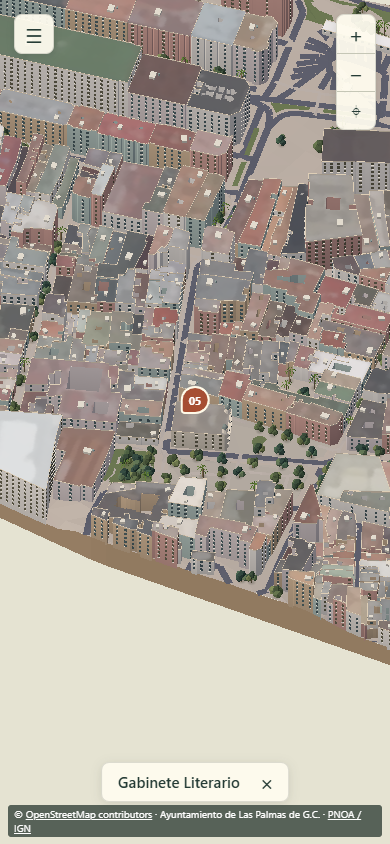
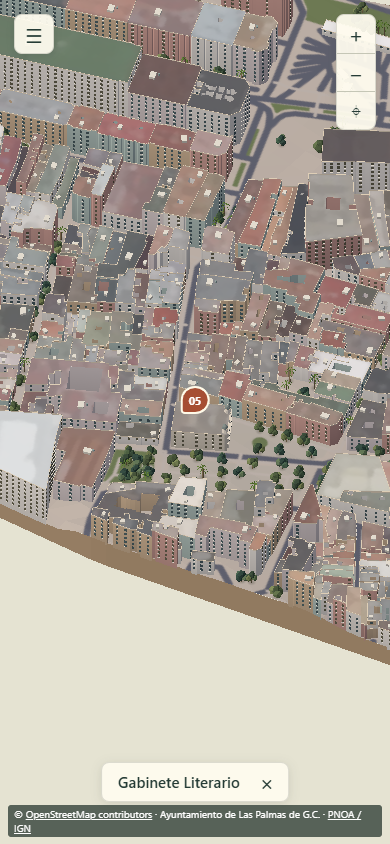
Render streets and plazas directly on the terrain surface

diff --git a/scene.js b/scene.js
@@ -1,3 +1,4 @@
+import { makeGroundMap } from './ground-map.js';
 import { addLandmarks } from './landmarks.js';
 import * as T from 'three';
 import { mergeGeometries } from 'three/addons/utils/BufferGeometryUtils.js';
@@ -51,7 +52,7 @@ export function makeCity(data, neutral, roofColours, roofAtlas, compact=false) {
     g.computeVertexNormals(); return g.rotateX(-Math.PI/2);
   }
   // Subdivide the ground before clipping so local relief survives triangulation.
-  for(const ring of data.ground) add(drape(new T.ShapeGeometry(shape([ring])),0),'#c7bcb2',ring[0][0],ring[0][1],1);
+  for(const ring of data.ground) add(drape(new T.ShapeGeometry(shape([ring])),0),'#ffffff',ring[0][0],ring[0][1],6);
   const boundary=data.boundary;
   for(let k=1;k<boundary.length;k++){
     const [a,b]=boundary[k-1],[c,d]=boundary[k];
@@ -61,24 +62,6 @@ export function makeCity(data, neutral, roofColours, roofAtlas, compact=false) {
       const xx=T.MathUtils.lerp(a,c,(j+1)/steps),yy=T.MathUtils.lerp(b,d,(j+1)/steps);
       const v=[x,altitude(x,y),-y,xx,altitude(xx,yy),-yy,x,-5,-y,xx,altitude(xx,yy),-yy,xx,-5,-yy,x,-5,-y];
       const g=new T.BufferGeometry();g.setAttribute('position',new T.Float32BufferAttribute(v,3));g.computeVertexNormals();add(g,'#bb9f7d',x,y);
-    }
-  }
-  for(const s of data.surfaces){
-    const pavedPark=s.paved;
-    const planted=s.kind==='park' && !pavedPark;
-    const paving=s.id==='30801430'?'#96948f':'#c0b9af';
-    add(drape(new T.ShapeGeometry(shape(s.rings)),.55),planted?'#728157':paving,s.rings[0][0][0],s.rings[0][0][1],planted?2:1);
-  }
-  for(const road of data.roads){
-    const walk=['steps','footway','path','pedestrian','cycleway'].includes(road.kind);
-    const width=walk?2.2:['primary','secondary','trunk'].includes(road.kind)?8:4.5;
-    for(let i=1;i<road.line.length;i++){
-      const [x,y]=road.line[i-1],[a,b]=road.line[i],len=Math.hypot(a-x,b-y);
-      if(len<0.1)continue;
-      
-      const g=new T.PlaneGeometry(width,len,1,Math.ceil(len/9));
-      g.rotateZ(Math.atan2(b-y,a-x)-Math.PI/2).translate((x+a)/2,(y+b)/2,0);
-      add(drape(g,walk?0.65:0.32),walk?'#c6bdb6':'#626575',x,y,walk?1:0);
     }
   }
   const walls=['#e4d9d6','#ebe7df','#d5a79c','#d7bd9c','#b6c8c1','#f3eee6'];
@@ -187,16 +170,29 @@ export function makeCity(data, neutral, roofColours, roofAtlas, compact=false) {
     }
   }
 
+  const groundMap=neutral?null:makeGroundMap(data);
   if(!neutral) mat.onBeforeCompile=shader=>{
+    shader.uniforms.groundColours={value:groundMap.texture};
+    shader.uniforms.groundBounds={value:groundMap.bounds};
     shader.uniforms.roofColours={value:roofColours};
     shader.uniforms.atlasBounds={value:new T.Vector4().fromArray(roofAtlas.bounds)};
     shader.vertexShader='attribute float surface; varying float vKind; varying vec3 vMap;\n'+shader.vertexShader.replace('#include <begin_vertex>','#include <begin_vertex>\n vKind=surface; vMap=position;');
-    shader.fragmentShader='uniform sampler2D roofColours; uniform vec4 atlasBounds; varying float vKind; varying vec3 vMap;\n'+shader.fragmentShader.replace('#include <color_fragment>',`#include <color_fragment>
+    shader.fragmentShader='uniform sampler2D groundColours; uniform vec4 groundBounds; uniform sampler2D roofColours; uniform vec4 atlasBounds; varying float vKind; varying vec3 vMap;\n'+shader.fragmentShader.replace('#include <color_fragment>',`#include <color_fragment>
       vec2 p=vMap.xz;
       float speck=fract(sin(dot(floor((p+vMap.y*.41)*5.),vec2(12.9898,78.233)))*4375.5453);
       float fade=1.-smoothstep(.13,.75,length(fwidth(p)));
       float grain=(speck-.5)*.07;
-      if(vKind>4.5){
+      if(vKind>5.5){
+        vec2 uv=(vec2(p.x,-p.y)-groundBounds.xy)/groundBounds.zw;
+        vec3 ground=texture2D(groundColours,uv).rgb;
+        diffuseColor.rgb*=ground;
+        if(ground.g>ground.r && ground.g>ground.b){grain+=.1*sin(p.x*.73)*sin(p.y*.61);}
+        else if(ground.r>=ground.b){
+          vec2 paving=p*vec2(.85,1.65);paving.x+=mod(floor(paving.y),2.)*.5;
+          vec2 edge=min(fract(paving),1.-fract(paving));
+          grain-=.15*(1.-smoothstep(.01,.1,min(edge.x,edge.y)));
+        }
+      }else if(vKind>4.5){
         grain+=(speck-.5)*.36+.07*sin(p.x*2.+p.y*3.);
       }else if(vKind>2.5){
         // Same metric frame as scripts/roof-colours.py. Texture origin is southwest.
@@ -209,11 +205,6 @@ export function makeCity(data, neutral, roofColours, roofAtlas, compact=false) {
         vec2 edge=min(fract(uv),1.-fract(uv));
         float seam=1.-smoothstep(.015,.09,min(edge.x,edge.y));
         grain+=tile?.12*cos(uv.x*6.283)-.17*seam:-.14*seam;
-      }else if(vKind>1.5){grain+=.1*sin(p.x*.73)*sin(p.y*.61);}
-      else if(vKind>.5){
-        vec2 uv=p*vec2(.85,1.65);uv.x+=mod(floor(uv.y),2.)*.5;
-        vec2 edge=min(fract(uv),1.-fract(uv));
-        grain-=.15*(1.-smoothstep(.01,.1,min(edge.x,edge.y)));
       }
       diffuseColor.rgb*=1.+grain*fade;
     `);

diff --git a/ground-map.js b/ground-map.js
@@ -1,0 +1,51 @@
+import * as T from 'three';
+
+// Ground features share the terrain triangles. Paint their plan-view coverage once.
+export function makeGroundMap(data) {
+  const extent = new T.Box2();
+  for (const [x, y] of data.boundary) extent.expandByPoint(new T.Vector2(x, y));
+  const size = extent.getSize(new T.Vector2());
+  const scale = Math.min(3, 2048 / Math.max(size.x, size.y));
+  const canvas = document.createElement('canvas');
+  canvas.width = Math.max(1, Math.ceil(size.x * scale));
+  canvas.height = Math.max(1, Math.ceil(size.y * scale));
+  const ctx = canvas.getContext('2d', { alpha: false });
+  const sx = canvas.width / size.x, sy = canvas.height / size.y;
+  ctx.fillStyle = '#c7bcb2';
+  ctx.fillRect(0, 0, canvas.width, canvas.height);
+  ctx.setTransform(sx, 0, 0, -sy, -extent.min.x * sx, extent.max.y * sy);
+
+  function trace(points) {
+    ctx.moveTo(points[0][0], points[0][1]);
+    for (let i = 1; i < points.length; i++) ctx.lineTo(points[i][0], points[i][1]);
+  }
+  for (const s of data.surfaces) {
+    ctx.beginPath();
+    for (const ring of s.rings) {
+      trace(ring);
+      ctx.closePath();
+    }
+    ctx.fillStyle = s.kind === 'park' && !s.paved ? '#728157' :
+      s.id === '30801430' ? '#96948f' : '#c0b9af';
+    ctx.fill('evenodd');
+  }
+
+  const footways = new Set(['steps', 'footway', 'path', 'pedestrian', 'cycleway']);
+  const mainRoads = new Set(['primary', 'secondary', 'trunk']);
+  ctx.lineJoin = 'round';
+  ctx.lineCap = 'round';
+  for (const pedestrian of [false, true]) {
+    for (const road of data.roads) {
+      if (footways.has(road.kind) !== pedestrian || road.line.length < 2) continue;
+      ctx.lineWidth = pedestrian ? 2.2 : mainRoads.has(road.kind) ? 8 : 4.5;
+      ctx.strokeStyle = pedestrian ? '#c6bdb6' : '#626575';
+      ctx.beginPath();
+      trace(road.line);
+      ctx.stroke();
+    }
+  }
+
+  const texture = new T.CanvasTexture(canvas);
+  texture.colorSpace = T.SRGBColorSpace;
+  return { texture, bounds: new T.Vector4(extent.min.x, extent.min.y, size.x, size.y) };
+}

diff --git a/docs/QA.md b/docs/QA.md
@@ -52,3 +52,7 @@ Verifica dei monumenti: typecheck, build, confronto neutro/stilizzato a Santa An
 ## Catalogo e tetti
 
 La suite browser aggiunge un settimo luogo ai dati di prova, cambia l’ordine dei luoghi e controlla la selezione salvata e il filtro del pilota. Una rigenerazione separata con Alameda de Colón ha mantenuto le coordinate dei sei luoghi originali e il perimetro del pilota. Sulla scena cittadina le verifiche geometriche per il posizionamento sui tetti scendono da 18.178 a 15.132 con lo stesso risultato aggregato.
+
+## Strade sul terreno
+
+La [vista mobile del Teatro Pérez Galdós](screenshots/teatro-mobile.png) copre il viale lungo l’aiuola e gli incroci ai lati del teatro. Il colore di strade, percorsi e superfici OSM segue gli stessi triangoli del terreno in tutta l’area. Le strade hanno giunzioni arrotondate e i percorsi pedonali si disegnano per ultimi. La mappa dei colori viene generata una volta per scena con il lato maggiore limitato a 2048 pixel. Verificati il pilota neutro e stilizzato, navigazione desktop e mobile emulato, zoom e ripristino ripetuto del contesto WebGL.

diff --git a/PROGRESS.md b/PROGRESS.md
@@ -9,3 +9,5 @@
 Santa Ana e Gabinete Literario hanno ora facciate procedurali dedicate e profili dei tetti distinti. Le immagini di consultazione restano nella cache privata. Catture aggiornate nella cartella QA.
 
 Il catalogo di Las Palmas governa luoghi, appartenenza al pilota e personalizzazioni degli edifici. Menu e modelli dei monumenti sono moduli separati. Verificati riordino, settimo luogo di prova e recupero del contesto nel browser. La mappa pubblicata conserva i sei luoghi originali.
+
+Corretto l’affioramento del terreno attraverso le carreggiate. Il viewer compone strade, sentieri e superfici dai geodati direttamente sulla mesh del terreno. Aggiunta la cattura mobile del Teatro Pérez Galdós alla suite QA.
